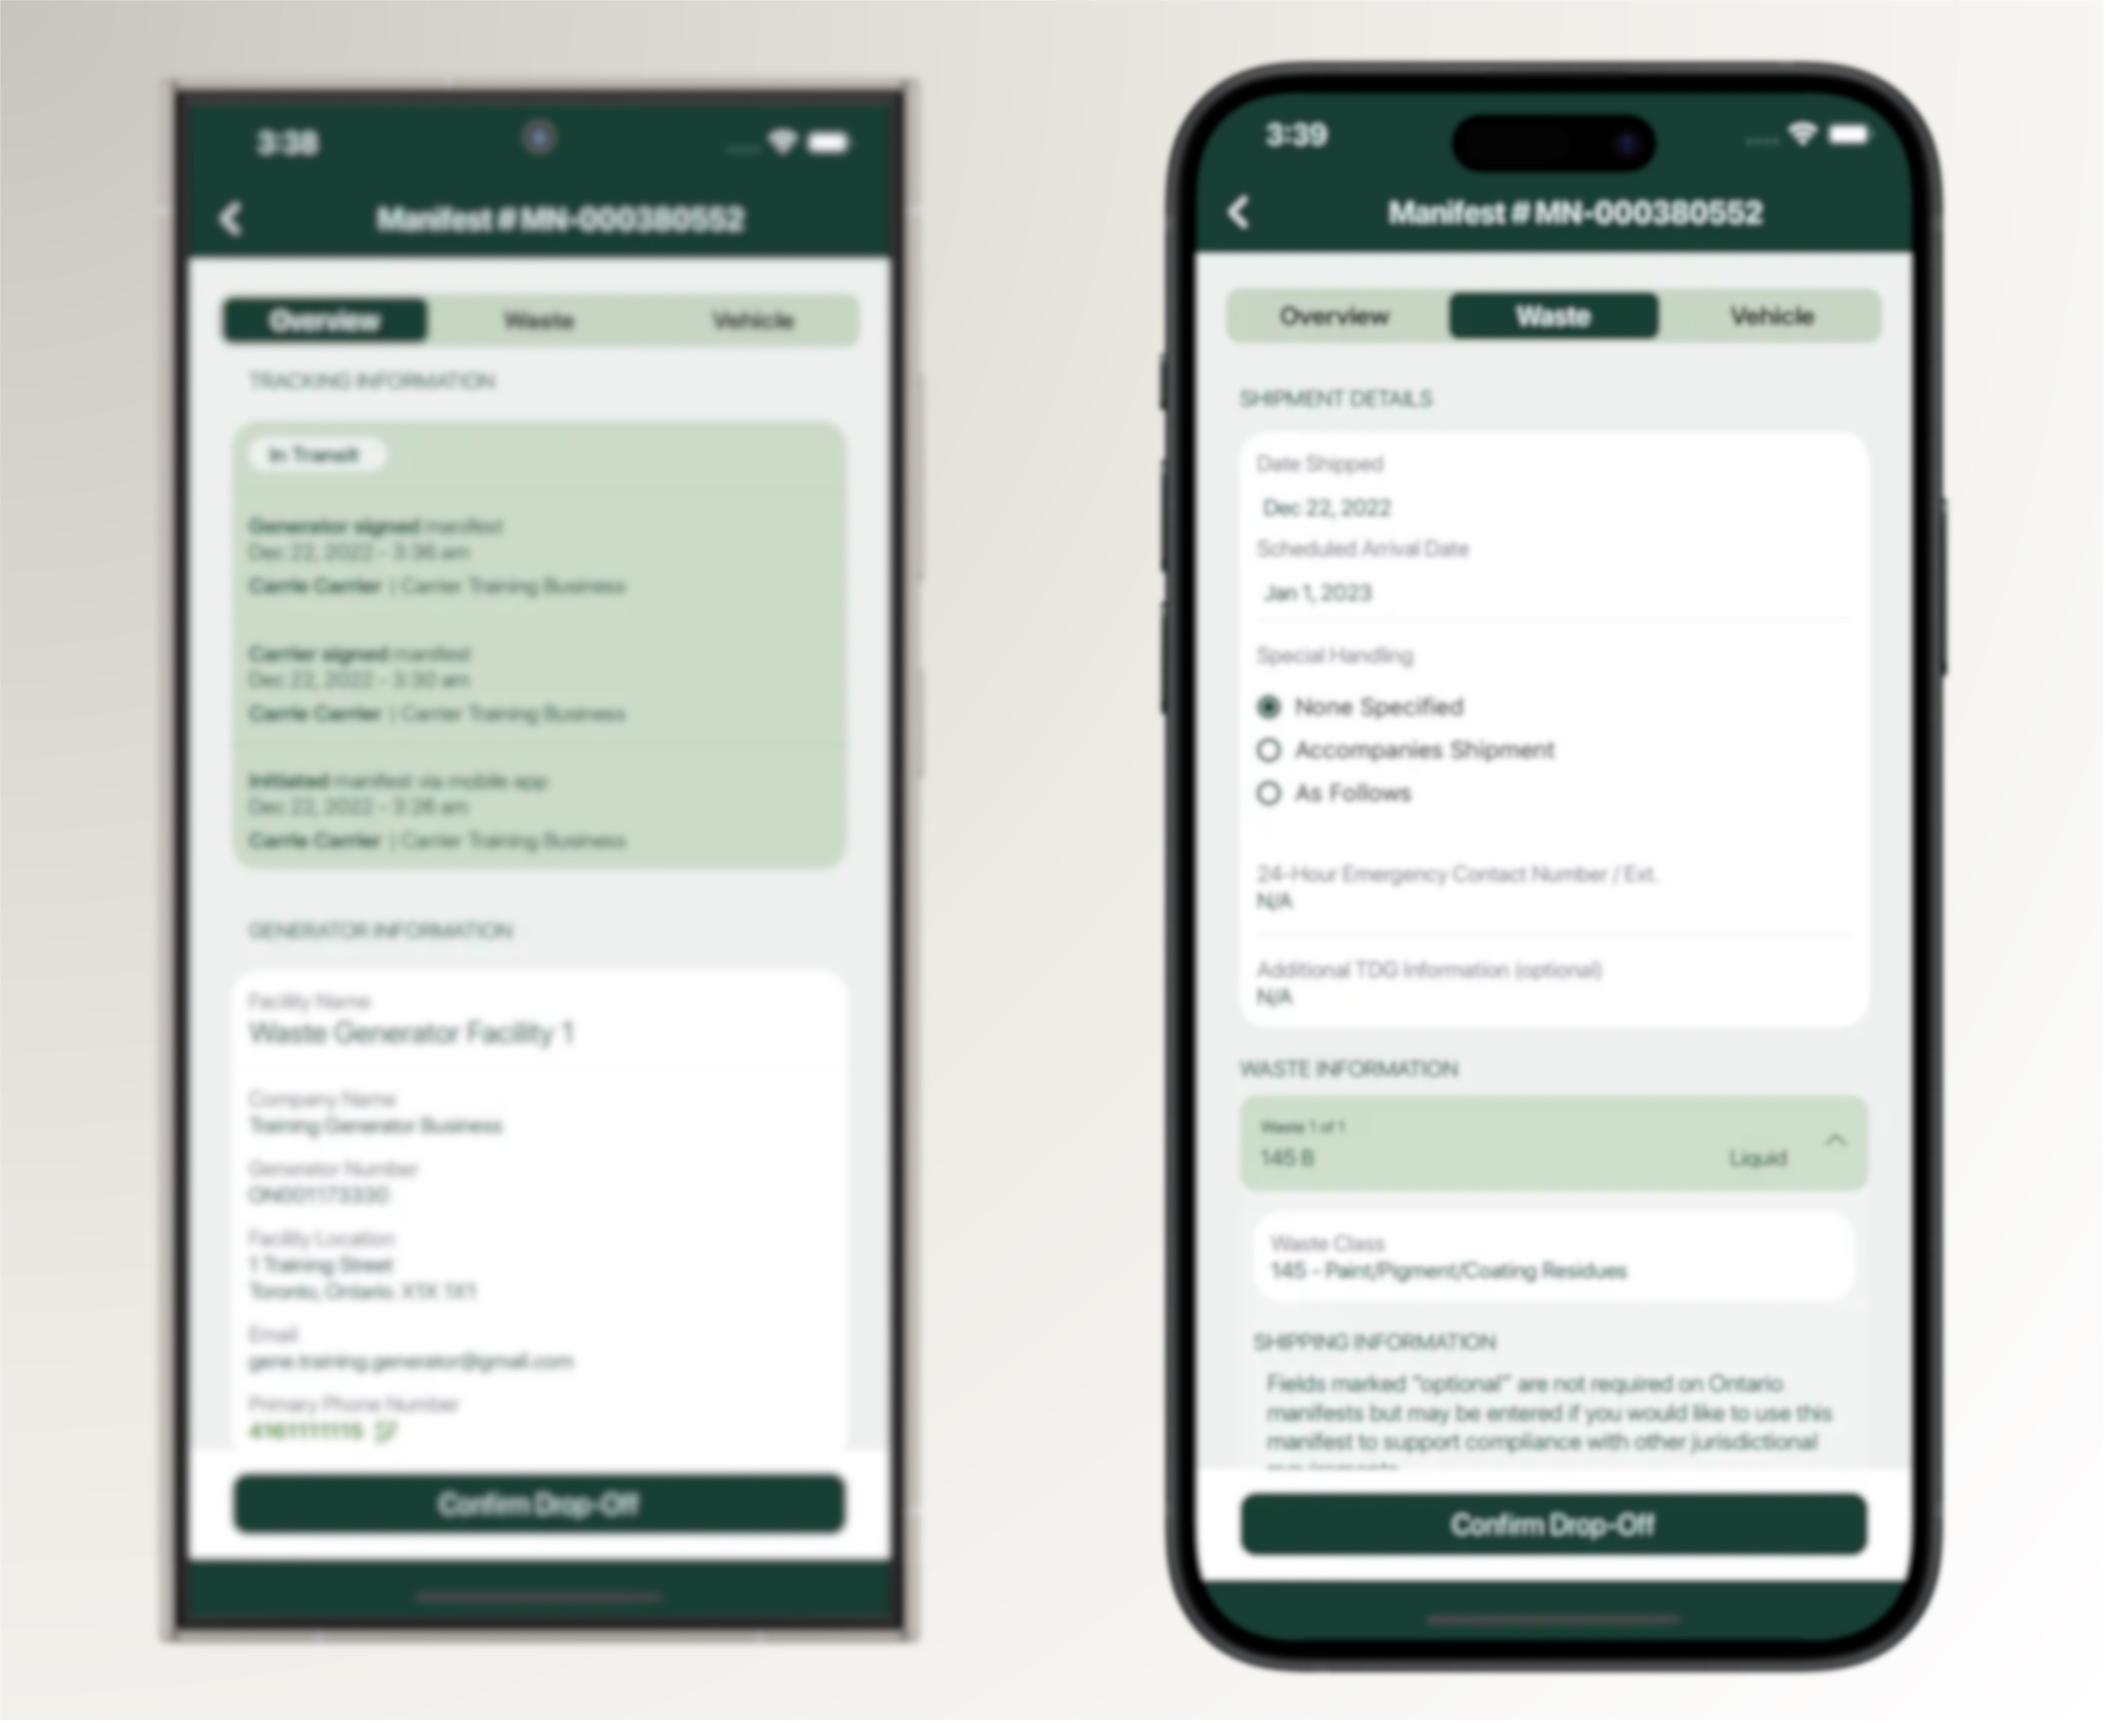
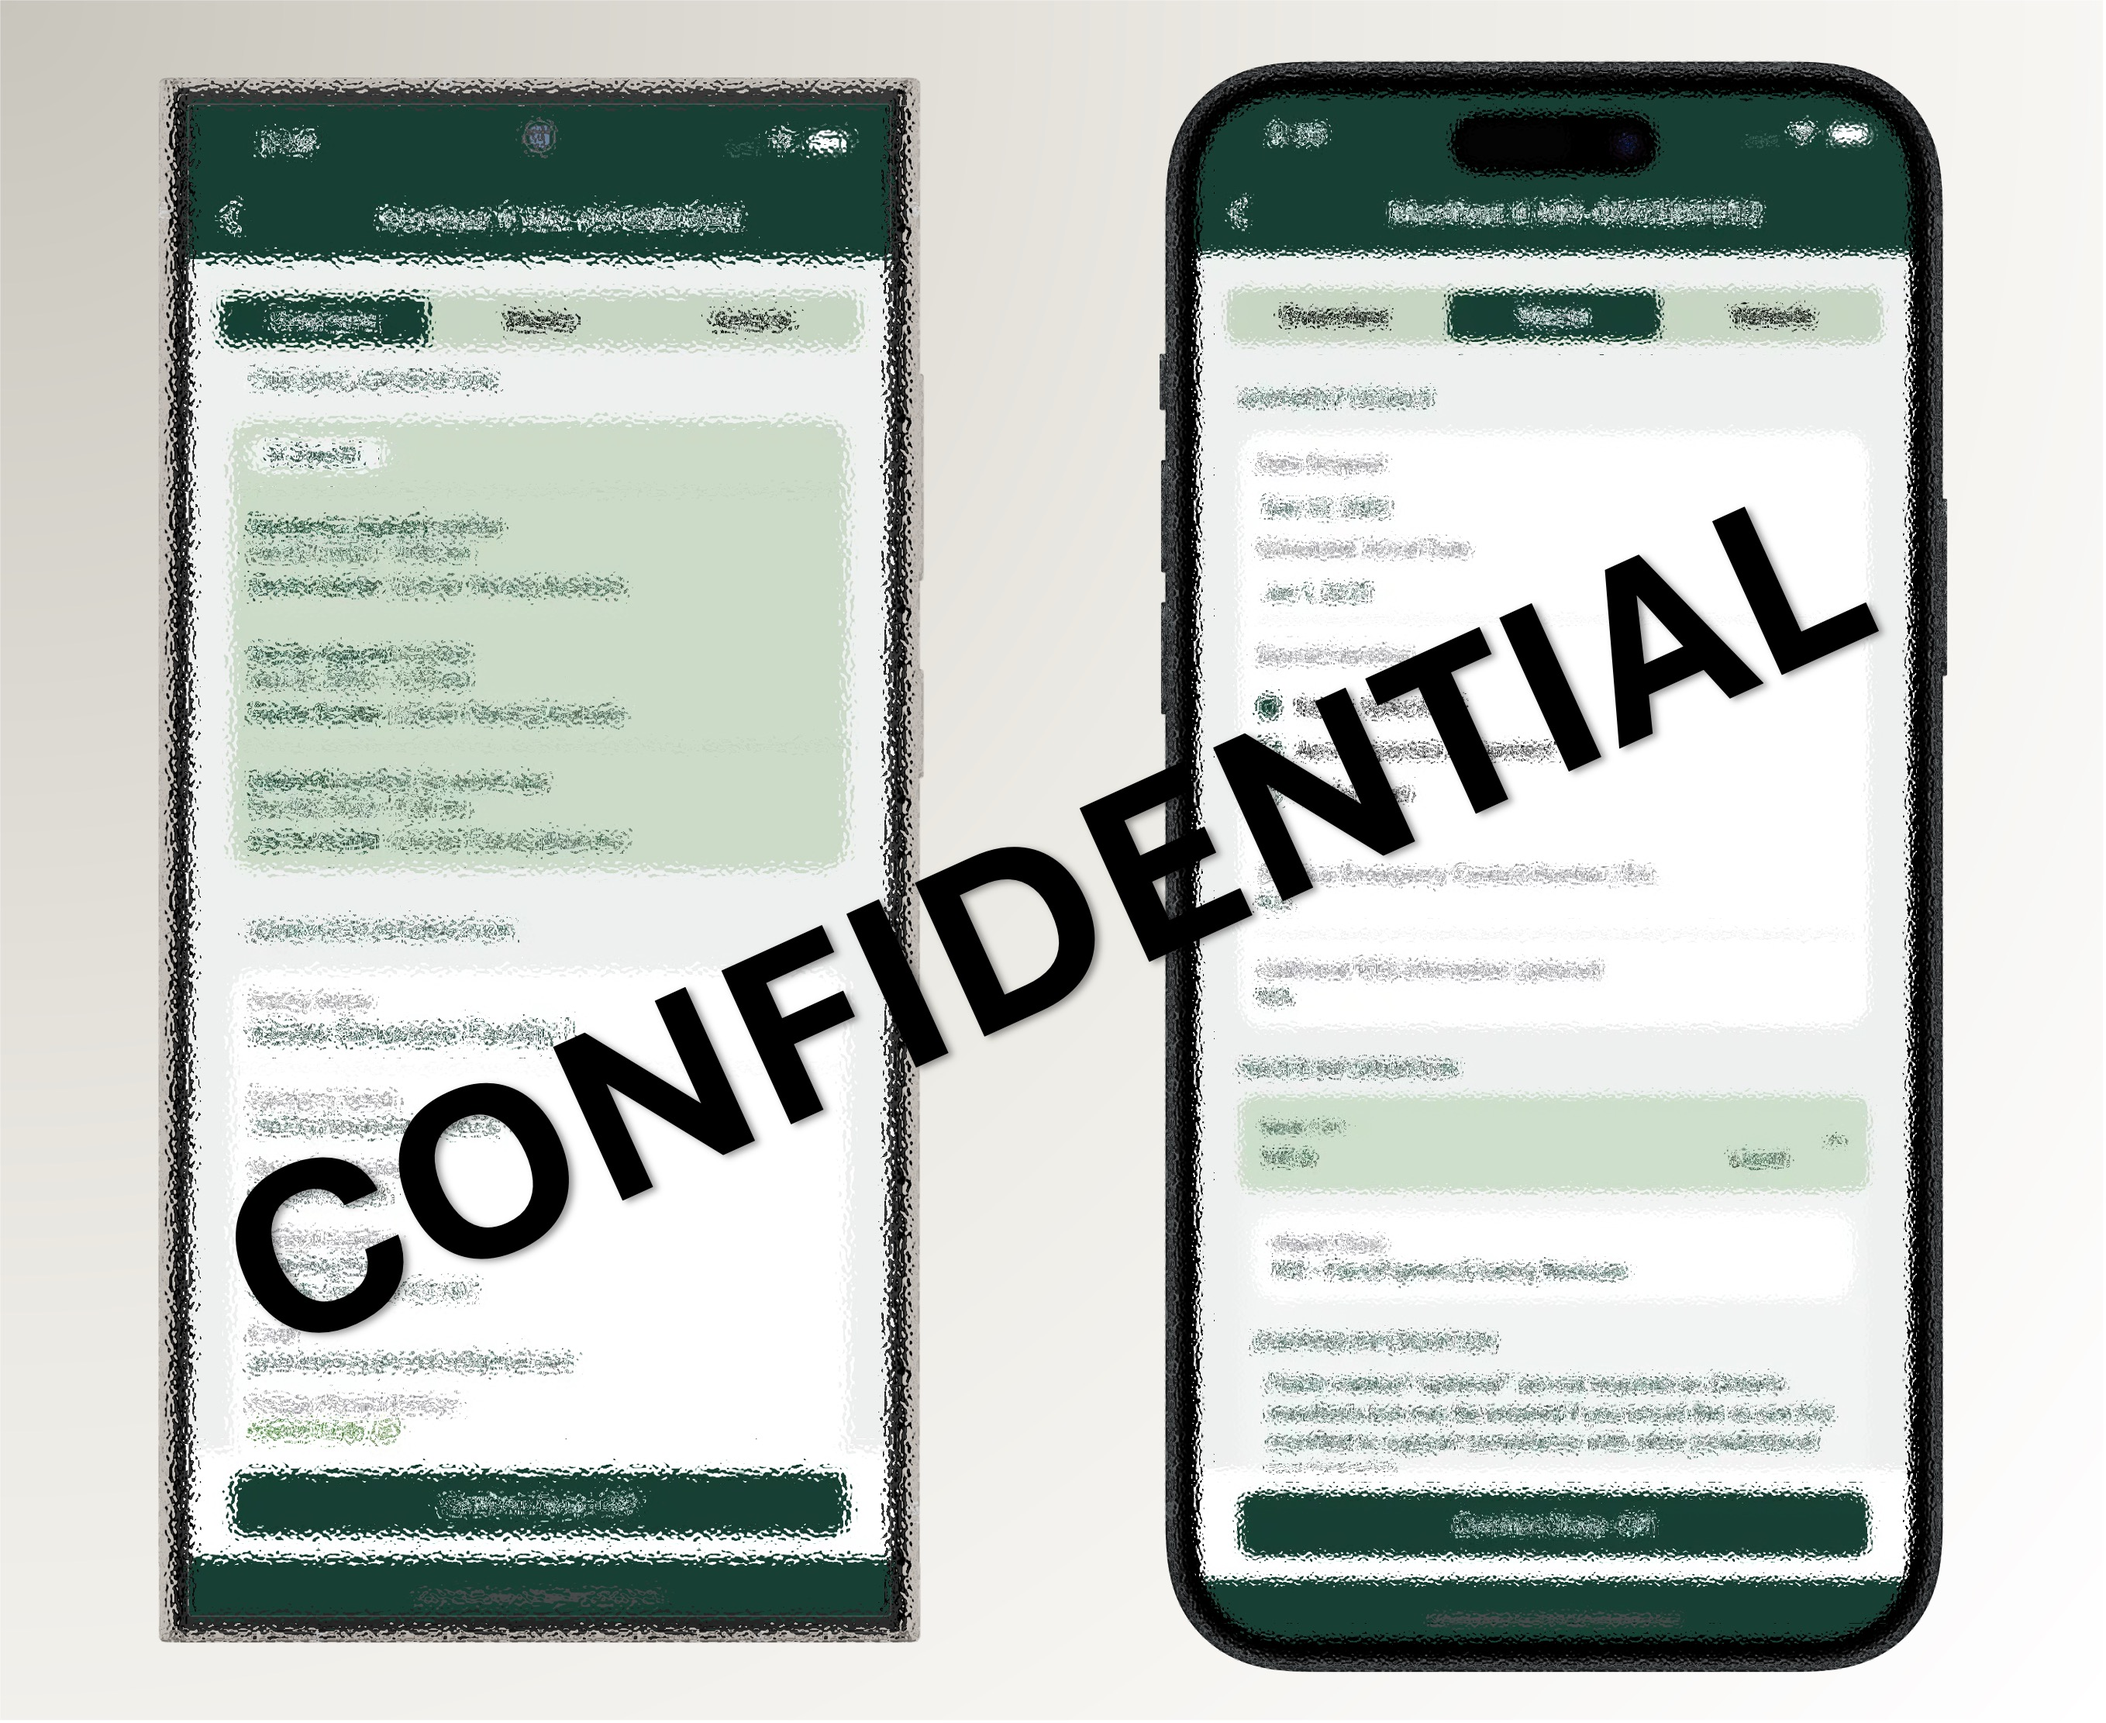
Update: Refined Content Pagewide for better UX Experience (#11)

Changed region(s): [[0.0618, 0.0311, 0.9275, 0.9937]]

diff --git a/src/app/research/page.tsx b/src/app/research/page.tsx
@@ -17,14 +17,31 @@ const ResearchPage = () => {
 						intelligence, language learning models, and machine learning. I
 						leverage linguistic and psychological characteristics from text to
 						improve existing fake news classification systems, where I worked
-						alongside Dr. Cherie Ding and Dr. Shaina Raza to achieve a
-						classification accuracy rate exceeding 90%. By examining how
-						language patterns and psychological cues influence the spread of
-						misinformation, my research offers innovative solutions for fake
-						news classification. I have also been honored with a nomination for
-						the Governor General&apos;s Award for excellence in both research
-						and presentation skills. Explore my findings, methodologies, and
-						contributions to the ongoing efforts to combat fake news.
+						alongside{' '}
+						<a
+							href='https://scholar.google.ca/citations?user=_4W5qzQAAAAJ&hl=en'
+							className='font-bold'
+						>
+							Dr. Chen Ding
+						</a>{' '}
+						and{' '}
+						<a
+							href='https://scholar.google.com/citations?user=chcz7RMAAAAJ&hl=en'
+							className='font-bold'
+						>
+							Dr. Shaina Raza
+						</a>{' '}
+						to achieve a classification accuracy rate exceeding 90%. By
+						examining how language patterns and psychological cues influence the
+						spread of misinformation, my research offers innovative solutions
+						for fake news classification. I have also been honored with a
+						nomination for the Governor General&apos;s Award for excellence in
+						both research and presentation skills. Explore my findings,
+						methodologies, and contributions to the ongoing efforts to combat
+						fake news.
+					</p>
+					<p className='sub-text mt-8 text-lg text-center'>
+						Select a paper below:
 					</p>
 					<div className='flex flex-row gap-8 md:gap-16 w-full justify-center mt-8 md:text-xl'>
 						{PAPERS.map((paper) => (

diff --git a/src/features/about/index.tsx b/src/features/about/index.tsx
@@ -41,7 +41,11 @@ const About = () => {
 								Agile environments
 							</span>
 							, where he successfully transformed physical management processes
-							into streamlined digital applications.
+							into streamlined digital applications. View his{' '}
+							<a className='underline' href='/profession'>
+								portfolio
+							</a>
+							.
 							<br />
 							<br />
 							Keshopan has completed his master&apos;s thesis with a focus on
@@ -54,7 +58,11 @@ const About = () => {
 								Machine Learning
 							</span>
 							. He was nominated for the Governor General&apos;s Gold Medal for
-							exceptional research work and presentational skills.
+							exceptional research work and presentational skills. View his{' '}
+							<a className='underline' href='/research'>
+								research
+							</a>
+							.
 							<br />
 							<br />
 							During his spare time, you&apos;ll find him exploring the city and

diff --git a/src/features/projects/const.ts b/src/features/projects/const.ts
@@ -86,7 +86,7 @@ export const PROJECTS = [
 		],
 	},
 	{
-		label: 'Proprietary Mobile Application',
+		label: 'Proprietary Mobile Application (Confidential)',
 		imagesArray: PROJECT_PATHS.RPRA_HAZTRACK,
 		description: PROJECT_DESCRIPTIONS.RPRA,
 		// link: '',
